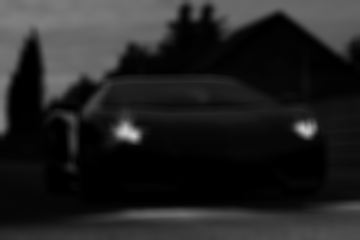
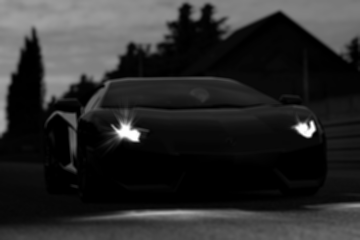
fix stander deviation caculation

diff --git a/hw4-1_local_moment_smooth_shap/src/local_moment.cpp b/hw4-1_local_moment_smooth_shap/src/local_moment.cpp
@@ -1,4 +1,5 @@
 #include "local_moment.hpp"
+#include "histogram_equalization.hpp"
 
 void loadRawFile(cv::Mat &dst_img, std::string file_path, int width, int height)
 {
@@ -80,14 +81,14 @@ cv::Mat LocalMoment::addPadding(cv::Mat &src_img, int mask_size[2])
 std::vector<cv::Mat> LocalMoment::getLocalMomtEnh(double E, double k0, double k1, double k2)
 {
   std::vector<cv::Mat> list;
-  cv::Mat img_mean(240, 360, CV_8UC1);
-  cv::Mat img_var(240, 360, CV_8UC1);
-  cv::Mat img_enhan(240, 360, CV_8UC1);
   cv::Mat pad = this->pad_img;
   cv::Mat src = this->src_img;
   int *mask = this->mask_size;
   int pad_x = this->pad_x;
   int pad_y = this->pad_y;
+  cv::Mat img_mean(src.rows, src.cols, CV_8UC1);
+  cv::Mat img_var(src.rows, src.cols, CV_8UC1);
+  cv::Mat img_enhan(src.rows, src.cols, CV_8UC1);
   double mean_sd_g[2];
   this->getImageMeanSd(src, mean_sd_g);
   // std::cout << mean_sd_g[0] << ", " << mean_sd_g[1] << std::endl;
@@ -104,7 +105,16 @@ std::vector<cv::Mat> LocalMoment::getLocalMomtEnh(double E, double k0, double k1
         }
       }
       double mean = (pixel_value / (mask[0]*mask[1]));
-      double sd = sqrt(pow(pad.at<uint8_t>(i, j)-mean, 2) / (mask[0]*mask[1]));
+      double sd = 0;
+      for (int k = i - pad_y; k <= i + pad_y; k++)
+      {
+        for (int l = j - pad_x; l <= j + pad_x; l++)
+        {
+          sd += pow(pad.at<uint8_t>(k, l)-mean, 2);
+        }
+      }
+      sd = sqrt(sd / (mask[0]*mask[1]));
+      // double sd = pow(pad.at<uint8_t>(i, j)-mean, 2) / (mask[0]*mask[1]);
       // for local Moment enhancement
       double enhancement;
       // std::cout << sd << std::endl;
@@ -156,17 +166,20 @@ int main(int argc, char **argv)
 {
   cv::Mat src(240, 360, CV_8UC1);
   loadRawFile(src, "../images/car.raw", 240, 360);
-  int mask_size[] = {10, 10};
+  int mask_size[] = {3, 3};
   LocalMoment local_moment(src, mask_size );
-  // cv::Mat add_pad = local_moment.addPadding(src, mask_size);
+  // // cv::Mat add_pad = local_moment.addPadding(src, mask_size);
   std::vector<cv::Mat> lo_mean_var = local_moment.getLocalMomtEnh(4.0, 0.4, 0.02, 0.4);
   showImage("car raw", src);
   showImage("car local mean", lo_mean_var[0]);
+  HistogramEq car_sd = HistogramEq(lo_mean_var[1], 256);
+  cv::Mat eq_img =  car_sd.getEqImage();
   showImage("car local variance", lo_mean_var[1]);
   showImage("car local enhancement", lo_mean_var[2]);
   saveImage(src, "../result_img/problem1/", "car");
   saveImage(lo_mean_var[0], "../result_img/problem1/", "local_mean");
   saveImage(lo_mean_var[1], "../result_img/problem1/", "local_variance");
+  saveImage(eq_img, "../result_img/problem1/", "local_variance_eq");
   saveImage(lo_mean_var[2], "../result_img/problem1/", "local_enhancement");
   cv::waitKey(0);
   return 0;

diff --git a/hw4-1_local_moment_smooth_shap/lib/histogram_equalization.cpp b/hw4-1_local_moment_smooth_shap/lib/histogram_equalization.cpp
@@ -1,0 +1,91 @@
+#include "histogram_equalization.hpp"
+
+HistogramEq::HistogramEq(cv::Mat &src_img, int L=256)
+{
+  this->histogram = this->getHistogram(src_img, L);
+  this->cdf = this->getCDF();
+  this->L = L;
+  this->pixel_num = src_img.cols * src_img.rows;
+  this->src = src_img.clone();
+  this->ComputeVmap(this->v_map);
+}
+
+std::vector<int> HistogramEq::getHistogram(cv::Mat &src_img, int L=256)
+{
+  std::vector<int> his(L, 0.0);
+  for (int i = 0; i < src_img.rows; i++)
+  {
+    for (int j = 0; j < src_img.cols; j++)
+    {
+      his[src_img.at<uint8_t>(i, j)] += 1.0;
+    }
+  }
+  return his;
+}
+
+std::vector<int> HistogramEq::getCDF()
+{
+  std::vector<int> his_src = this->histogram;
+  std::vector<int> cdf(his_src.size());
+  int cdf_count = his_src[0];
+  int cdf_min = 0;
+  for (int i = 0; i < his_src.size(); i++)
+  {
+    cdf[i] = cdf_count;
+    if (cdf_min == 0 && cdf_count != 0) cdf_min = cdf_count;
+    cdf_count += his_src[i];
+  }
+  this->cdf_min = cdf_min;
+  return cdf;
+}
+
+int HistogramEq::getHv(int v)
+{
+  return ((double)(this->cdf[v] - this->cdf_min) / (double)(this->pixel_num)) * (this->L - 1); 
+}
+
+std::vector<int> HistogramEq::getEqHistofram()
+{
+  std::vector<int> eq_his(this->histogram.size());
+  for (int i = 0; i < eq_his.size(); i++)
+  {
+    eq_his[this->getHv(i)] = this->histogram[i];
+  }
+  return eq_his;
+}
+
+void HistogramEq::ComputeVmap(std::vector<int> &v_map)
+{
+  v_map.resize(this->histogram.size());
+  for (int i = 0; i < this->histogram.size(); i++)
+  {
+    v_map[i] = this->getHv(i);
+  }
+}
+
+cv::Mat HistogramEq::getEqImage(cv::Mat &img_src)
+{
+  cv::Mat eq_img(img_src.rows, img_src.cols, CV_8UC1);
+  for (int i = 0; i < img_src.rows; i++)
+  {
+    for (int j = 0; j < img_src.cols; j++)
+    {
+      eq_img.at<char>(i, j) = this->v_map[img_src.at<uint8_t>(i, j)];
+    }
+  }
+  return eq_img;
+}
+
+cv::Mat HistogramEq::getEqImage()
+{
+  cv::Mat img_src = this->src;
+  cv::Mat eq_img(img_src.rows, img_src.cols, CV_8UC1);
+  for (int i = 0; i < img_src.rows; i++)
+  {
+    for (int j = 0; j < img_src.cols; j++)
+    {
+      eq_img.at<char>(i, j) = this->v_map[img_src.at<uint8_t>(i, j)];
+    }
+  }
+  return eq_img;
+}

diff --git a/hw4-1_local_moment_smooth_shap/include/histogram_equalization.hpp b/hw4-1_local_moment_smooth_shap/include/histogram_equalization.hpp
@@ -1,0 +1,24 @@
+#include <iostream>
+#include <fstream>
+#include <opencv2/opencv.hpp>
+#include <opencv2/highgui/highgui.hpp>
+
+class HistogramEq
+{
+  public:
+  cv::Mat src;
+  std::vector<int> histogram;
+  std::vector<int> cdf;
+  std::vector<int> v_map;
+  int cdf_min;
+  int L;
+  int pixel_num;
+  HistogramEq(cv::Mat &src_img, int L);
+  std::vector<int> getHistogram(cv::Mat &src_img, int L);
+  std::vector<int> getCDF();
+  int getHv(int v);
+  std::vector<int> getEqHistofram();
+  void ComputeVmap(std::vector<int> &v_map);
+  cv::Mat getEqImage(cv::Mat &img_src);
+  cv::Mat getEqImage();
+};
